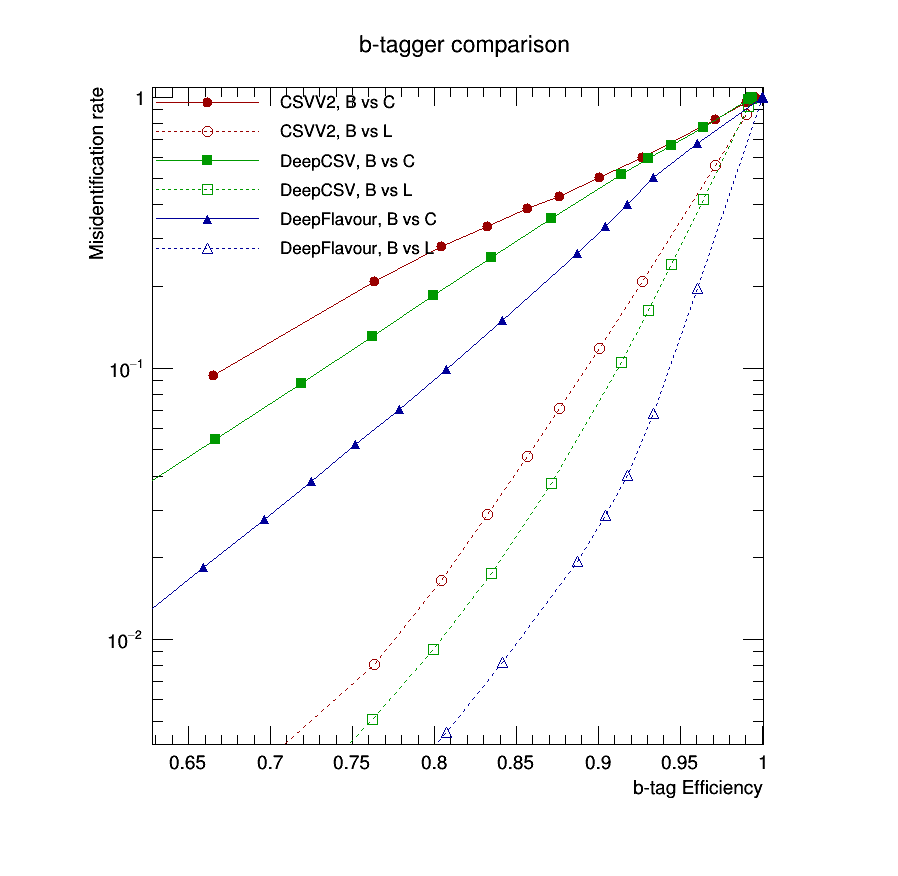
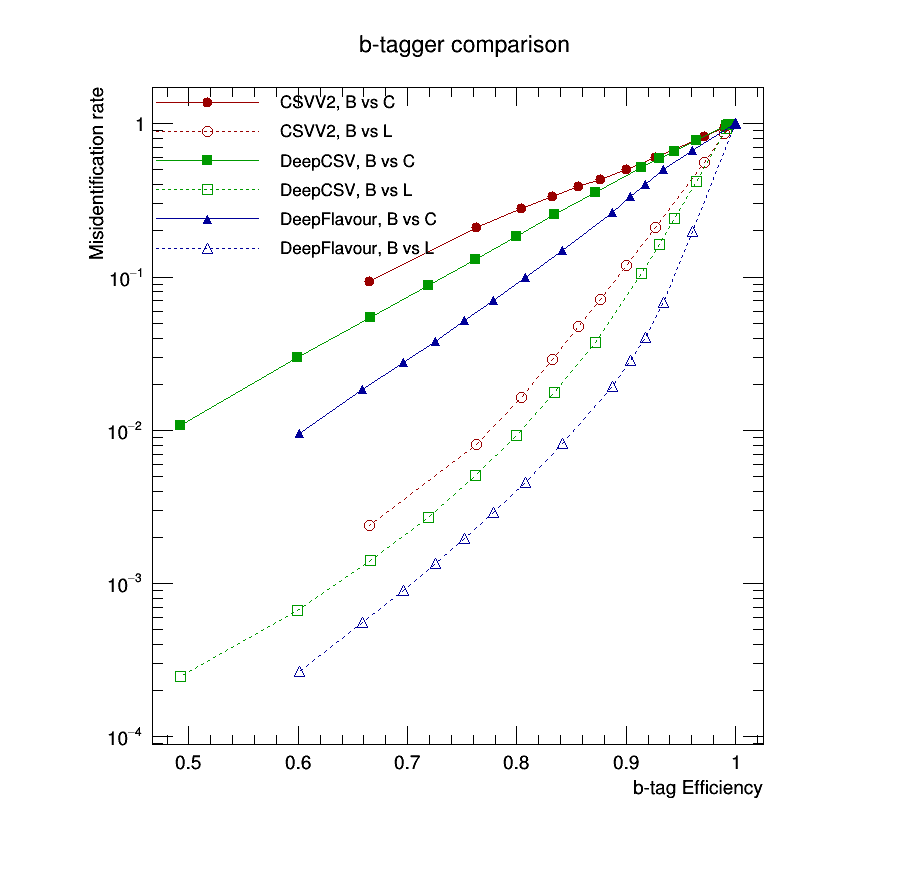
btagger ROC update

diff --git a/myMacros/bTagEff/bTaggerComp.h b/myMacros/bTagEff/bTaggerComp.h
@@ -2,6 +2,7 @@
 #include "TTree.h"
 #include "TCanvas.h"
 #include "TGraph.h"
+#include "TMultiGraph.h"
 #include "TStyle.h"
 #include "TLatex.h"
 #include <iostream>
@@ -494,6 +495,8 @@ void drawROCcurve()
     
     TLegend *leg = new TLegend(0.15, 0.7, 0.8, 0.9);
     gStyle->SetLegendTextSize(18);
+
+	TMultiGraph *mg = new TMultiGraph();
     
     TGraph *gr1 = new TGraph(nwps, effB_CSVV2, effC_CSVV2);
     gr1->SetMarkerStyle(kFullCircle);
@@ -537,23 +540,21 @@ void drawROCcurve()
     gr6->SetLineColor(kBlue+2);
     leg->AddEntry(gr6, "DeepFlavour, B vs L", "pl");
     
-    
-    gr1->Draw();
-    gr2->Draw("PL same");
-    gr3->Draw("PL same");
-    gr4->Draw("PL same");
-    gr5->Draw("PL same");
-    gr6->Draw("PL same");
-    
+	mg->Add(gr1);
+	mg->Add(gr2);
+	mg->Add(gr3);
+	mg->Add(gr4);
+	mg->Add(gr5);
+	mg->Add(gr6);
+
+	mg->Draw("APL");
+
+    mg->GetYaxis()->SetTitle("Misidentification rate");
+    mg->GetXaxis()->SetTitle("b-tag Efficiency");
+
     leg->SetBorderSize(0);
     leg->SetFillStyle(0);
     leg->Draw();
-    
-    gr1->GetYaxis()->SetRangeUser(0, 1);
-    gr1->GetXaxis()->SetRangeUser(0, 1);
-    
-    gr1->GetYaxis()->SetTitle("Misidentification rate");
-    gr1->GetXaxis()->SetTitle("b-tag Efficiency");
     
     // Draw Title
     TLatex *title = new TLatex();
